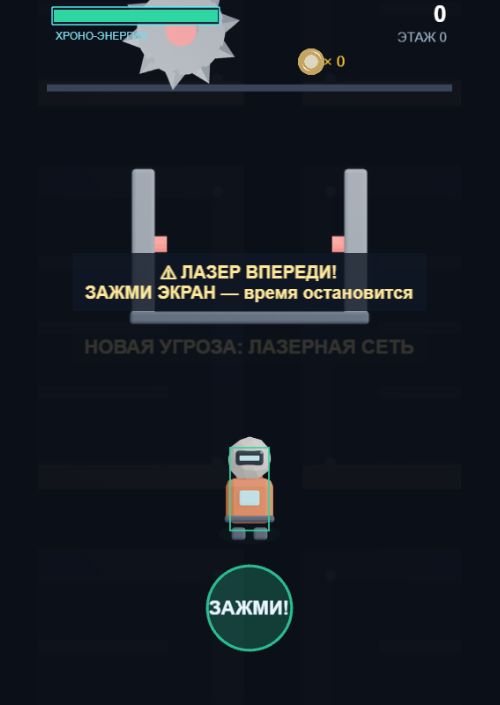
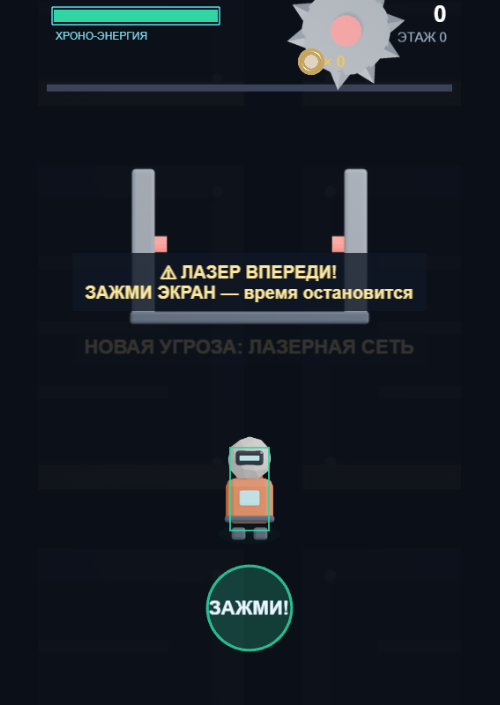
Пресс: плита внутри рамы; жёлтая зона за секунду до удара ловушек
Рама пресса стояла выше хода плиты: при ударе плита пробивала опору и ложилась под рамой. Теперь поднятая плита висит под поршнем и ложится на опору, положение после удара то же. Лазер, шипы, пресс и тесла за 1 с до включения показывают жёлтую мигающую зону там, где станет красной; тайминги не менялись. Спрятанные шипы полупрозрачные.

Changed region(s): [[0.57, 0.0, 0.81, 0.1248], [0.24, 0.0, 0.48, 0.1248]]

diff --git a/game/Assets/Scripts/Gameplay/Traps.js b/game/Assets/Scripts/Gameplay/Traps.js
@@ -42,6 +42,13 @@ class LaserTrap {
     if (!this.dangerous) return [];
     return [{ x1: this.beamX1, x2: this.beamX2, y1: this.beamY - 11, y2: this.beamY + 11 }];
   }
+  /* сколько мс до включения луча (для жёлтой зоны-предупреждения) и где он будет */
+  msToDanger() {
+    if (this.phase === 'off') return this.durOff - this.t + this.durTele;
+    if (this.phase === 'tele') return this.durTele - this.t;
+    return 0;
+  }
+  warnRects() { return [{ x1: this.beamX1, x2: this.beamX2, y1: this.beamY - 11, y2: this.beamY + 11 }]; }
   onFrozen() { if (this.dangerous) this.hadFreezeWhileDanger = true; }
   disarm() { this.phase = 'off'; this.t = 0; this.beam.setAlpha(0); this.glow.setAlpha(0); this.dangerous = false; }
   destroy() { this.d.destroy(); this.beam.destroy(); this.glow.destroy(); }
@@ -83,7 +90,7 @@ class SpikesTrap {
     this.phase = 'hidden';
     this.durHidden = prefab.durHidden / diff; this.durWarn = prefab.durWarn; this.durOut = prefab.durOut / diff;
     this.base = scene.add.rectangle(240, ledgeY - 4, 460, 12, 0x2b3442).setDepth(4);
-    this.img = scene.add.image(240, ledgeY + 34, 'trap_spikes').setScale(1.12).setDepth(6);
+    this.img = scene.add.image(240, ledgeY + 34, 'trap_spikes').setScale(1.12).setDepth(6).setAlpha(0.35);
     this.imgYOut = ledgeY - 16; this.imgYIn = ledgeY + 34;
     this.dangerous = false;
     this.hadFreezeWhileDanger = false;
@@ -103,7 +110,9 @@ class SpikesTrap {
       this.img.setY(Phaser.Math.Linear(this.imgYIn, this.imgYOut, k)).setAlpha(1);
     } else {
       const k = Math.max(0, 1 - this.t / 150);
-      this.img.setY(Phaser.Math.Linear(this.imgYIn, this.imgYOut, k)).setAlpha(1);
+      // спрятанные шипы всё равно торчат над полом (ход всего 50 px) — делаем их полупрозрачными,
+      // чтобы было видно, что сейчас они не опасны
+      this.img.setY(Phaser.Math.Linear(this.imgYIn, this.imgYOut, k)).setAlpha(0.35 + 0.65 * k);
     }
     this.dangerous = (this.phase === 'out');
   }
@@ -113,6 +122,12 @@ class SpikesTrap {
     // Раньше зона была на 31 px выше остриёв и в полтора раза шире: смерть без касания
     return [{ x1: 116, x2: 364, y1: this.img.y - 58, y2: this.ledgeY - 4 }];
   }
+  msToDanger() {
+    if (this.phase === 'hidden') return this.durHidden - this.t + this.durWarn;
+    if (this.phase === 'warn') return this.durWarn - this.t;
+    return 0;
+  }
+  warnRects() { return [{ x1: 116, x2: 364, y1: this.imgYOut - 58, y2: this.ledgeY - 4 }]; }
   onFrozen() { if (this.dangerous) this.hadFreezeWhileDanger = true; }
   disarm() { this.phase = 'hidden'; this.t = 0; this.dangerous = false; this.img.setY(this.imgYIn); }
   destroy() { this.img.destroy(); this.base.destroy(); }
@@ -126,12 +141,16 @@ class CrusherTrap {
     this.scene = scene; this.ledgeY = ledgeY;
     this.type = 'crusher';
     this.pxPerWorld = 159;                 // при scale 1.1 обеих спрайтов
-    this.frame = scene.add.image(240, ledgeY - 1.675 * this.pxPerWorld, 'trap_crusher_frame')
-      .setScale(1.1).setDepth(5);
-    this.press = scene.add.image(240, ledgeY - 2.05 * this.pxPerWorld, 'trap_crusher_press')
+    // Плита ходит внутри рамы: поднятая висит под поршнем, при ударе ложится на нижнюю опору.
+    // Раньше рама стояла на 126 px выше: плита пробивала опору и ложилась под рамой.
+    // Положение плиты при ударе (yDown) не менялось — баланс тот же.
+    // Спрайт рамы (256 px, scale 1.1): низ поршня — строка 72, верх опоры — строка 216
+    this.yDown = ledgeY - 0.55 * this.pxPerWorld;           // низ плиты = ledgeY − 43.5
+    this.frame = scene.add.image(240, this.yDown + 44 - 96.8, 'trap_crusher_frame')
+      .setScale(1.1).setDepth(5);                            // верх опоры = низ плиты при ударе
+    this.yUp = this.frame.y - 61.6 + 44;                     // верх плиты = низ поршня
+    this.press = scene.add.image(240, this.yUp, 'trap_crusher_press')
       .setScale(1.1).setDepth(6);
-    this.yUp = ledgeY - 2.05 * this.pxPerWorld;
-    this.yDown = ledgeY - 0.55 * this.pxPerWorld;
     this.phase = 'up'; this.t = 0;
     this.durUp = prefab.durUp / diff; this.durWarn = prefab.durWarn;
     this.slamTime = prefab.slamTime; this.durHold = prefab.durHold / diff; this.durRise = prefab.durRise;
@@ -176,6 +195,14 @@ class CrusherTrap {
     if (y2 <= y1) return [];
     return [{ x1: 118, x2: 362, y1: y1, y2: y2 }];
   }
+  /* до удара; после подъёма — снова через полный цикл (up + warn) */
+  msToDanger() {
+    if (this.phase === 'up') return this.durUp - this.t + this.durWarn;
+    if (this.phase === 'warn') return this.durWarn - this.t;
+    if (this.phase === 'rise') return this.durRise - this.t + this.durUp + this.durWarn;
+    return 0;
+  }
+  warnRects() { return [{ x1: 118, x2: 362, y1: this.yDown - 44, y2: this.yDown + 44 }]; }  // куда ляжет плита
   onFrozen() { if (this.dangerous) this.hadFreezeWhileDanger = true; }
   disarm() { this.phase = 'up'; this.t = 0; this.press.y = this.yUp; this.dangerous = false; }
   destroy() { this.frame.destroy(); this.press.destroy(); }
@@ -244,6 +271,12 @@ class TeslaTrap {
     if (!this.dangerous) return [];
     return [{ x1: this.arcX1, x2: this.arcX2, y1: this.arcY - 13, y2: this.arcY + 13 }];
   }
+  msToDanger() {
+    if (this.phase === 'idle') return this.durIdle - this.t + this.durCharge;
+    if (this.phase === 'charge') return this.durCharge - this.t;
+    return 0;
+  }
+  warnRects() { return [{ x1: this.arcX1, x2: this.arcX2, y1: this.arcY - 13, y2: this.arcY + 13 }]; }
   onFrozen() { if (this.dangerous) this.hadFreezeWhileDanger = true; }
   disarm() { this.phase = 'idle'; this.t = 0; this.dangerous = false; this.arc.clear(); this.glow.setAlpha(0); }
   destroy() { this.img.destroy(); this.glow.destroy(); this.arc.destroy(); }

diff --git a/game/Assets/Scripts/Gameplay/GameScene.js b/game/Assets/Scripts/Gameplay/GameScene.js
@@ -395,6 +395,21 @@ class GameScene extends Phaser.Scene {
         g.lineStyle(1.5, danger ? 0xff3b3b : 0xffc93c, danger ? 0.55 : 0.25);
         g.strokeRect(r.x1, r.y1, r.x2 - r.x1, r.y2 - r.y1);
       }
+      // жёлтая зона-предупреждение: за WARN_MS до включения ловушки мигает там, где станет красной
+      // (3 вспышки, к концу ярче). Тайминги ловушек не меняются — только подсказка
+      if (!tr.dangerous && tr.msToDanger) {
+        const ms = tr.msToDanger();
+        if (ms > 0 && ms <= GameScene.WARN_MS) {
+          const k = 1 - ms / GameScene.WARN_MS;
+          const blink = 0.5 - 0.5 * Math.cos(k * Math.PI * 2 * 3);
+          for (const r of tr.warnRects()) {
+            g.fillStyle(0xffc93c, 0.05 + (0.10 + 0.08 * k) * blink);
+            g.fillRect(r.x1, r.y1, r.x2 - r.x1, r.y2 - r.y1);
+            g.lineStyle(1.5, 0xffc93c, 0.25 + 0.45 * blink);
+            g.strokeRect(r.x1, r.y1, r.x2 - r.x1, r.y2 - r.y1);
+          }
+        }
+      }
     }
   }
 
@@ -524,3 +539,6 @@ class GameScene extends Phaser.Scene {
     });
   }
 }
+
+// за сколько мс до включения ловушки мигает жёлтая зона-предупреждение (drawHitboxes)
+GameScene.WARN_MS = 1000;

diff --git a/docs/FIXES.md b/docs/FIXES.md
@@ -7,8 +7,10 @@
 
 ## Итог
 
-- 12 исправлений в игре (из них 2 — вход и лидерборд на настоящих Яндекс Играх), 1 новый экран («Настройки»),
-  чёткая картинка на больших экранах и телефонах (отдельный коммит), 4 исправления в тестах.
+- 12 исправлений в игре (из них 2 — вход и лидерборд на настоящих Яндекс Играх).
+- Новое: экран «Настройки», чёткая картинка на больших экранах и телефонах, жёлтая зона-предупреждение
+  за секунду до удара ловушек.
+- 4 исправления в тестах.
 - 4 новых теста: `check_pages.js`, `check_daily.js` (без браузера), `probe_revive.js` и `shots_defense.js` (скриншоты).
 - Тесты теперь возвращают код ошибки, если что-то не так. Раньше часть из них печатала
   «ошибок нет» и при неработающей игре.
@@ -148,21 +150,25 @@
     был нарисован постоянно, хотя опасен он примерно 1 секунду из 2,8.
   - **Тесла:** катушки уменьшены до 0,45 и стояли в центре, а разряд шёл через всю шахту, выше контактов.
   - **Шипы:** зона на 31 точку выше остриёв и в полтора раза шире шипов — смерть без касания.
-  - **Пресс:** зона на 35 точек ниже плиты — смерть под прессом без касания.
+  - **Пресс:** зона на 35 точек ниже плиты — смерть под прессом без касания. Кроме того, рама стояла
+    на 126 точек выше хода плиты: при ударе плита пробивала нижнюю опору рамы и ложилась под ней,
+    а поднятая плита закрывала весь верх рамы.
   - **Пила:** зона смещена на 14 точек вниз от центра диска.
 - **Исправлено** (`Gameplay/Traps.js`, `Art/Sprites/trap_laser.png`):
-  - лазер и тесла — картинки поставлены к опасным линиям (`:14`, `:192`): луч идёт между излучателями,
-    разряд — между шарами-контактами; с картинки лазера стёрт вшитый луч, теперь он виден только при
-    предупреждении и выстреле. Высота зон не менялась;
-  - шипы — зона от остриёв до пола по ширине шипов и движется вместе с ними (`:114`);
-  - пресс — зона по самой плите, в том числе во время удара, но не выше 160 точек над полом, как
-    в исходном балансе (`:175`): лифт проходит сквозь раму, а плита пролетает её верх за доли удара;
-  - пила — зона по центру диска (`:72`).
+  - лазер и тесла (`LaserTrap`, `TeslaTrap`) — картинки поставлены к опасным линиям: луч идёт между
+    излучателями, разряд — между шарами-контактами; с картинки лазера стёрт вшитый луч, теперь он виден
+    только при предупреждении и выстреле. Высота зон не менялась;
+  - шипы (`SpikesTrap.rects`) — зона от остриёв до пола по ширине шипов и движется вместе с ними;
+    спрятанные шипы теперь полупрозрачные: они всё равно торчат над полом, и было непонятно, опасны ли они;
+  - пресс (`CrusherTrap`) — рама собрана: поднятая плита висит под поршнем, при ударе ложится на нижнюю
+    опору. Где плита лежит после удара, не менялось. Зона — по самой плите, в том числе во время удара,
+    но не выше 160 точек над полом, как в исходном балансе: лифт проходит сквозь раму;
+  - пила (`SawTrap.rects`) — зона по центру диска.
 - **Сложность:** шипы и пресс стали немного мягче, потому что зона меньше и умереть можно только от касания.
   `test/audit_passability.js` пересчитан под новые размеры: в худшем месте запас энергии вырос
   с 45,5 до 59,1 из 100.
 - **Проверка:** все пять ловушек сняты в момент опасности до и после (картинка выше). Все тесты проходят,
-  бот в `probe_playthrough.js` доходит до 7–9 этажа и погибает от нехватки энергии, как и в исходной версии.
+  бот в `probe_playthrough.js` доходит до 7–10 этажа и погибает от нехватки энергии, как и в исходной версии.
   `probe_missions.js` больше не зависит от того, умер ли автопилот за 30 секунд.
 
 ### 12. Опечатки
@@ -210,6 +216,21 @@
   `cdp_test.js` проверяет размер холста и увеличение камеры. При плотности 1, 2 и 3 (масштаб 1; 1,75; 2,75)
   проходят все тесты: клики по кнопкам всех экранов, удержание для остановки времени, мини-игры, бот проходит этажи.
   Вручную в браузере: меню, запуск забега, остановка времени.
+
+### 15. Жёлтая зона-предупреждение за секунду до удара
+
+![жёлтая зона](fixes/warning_zones.png)
+
+- **Зачем:** ловушки, которые включаются по времени (лазер, шипы, пресс, тесла), убивают только в свою фазу.
+  Раньше перед ударом было видно лишь слабое мигание самой ловушки, а куда она ударит — нет.
+- **Сделано:** за 1 секунду до включения на месте будущей красной зоны появляется жёлтая и трижды
+  вспыхивает, к концу ярче; в момент удара она становится красной. У пресса жёлтая зона — там, куда
+  ляжет плита. Пила опасна всегда, у неё жёлтой зоны нет.
+  - `Gameplay/Traps.js` — у четырёх ловушек методы `msToDanger()` (сколько осталось до удара)
+    и `warnRects()` (где будет опасно);
+  - `Gameplay/GameScene.js` — `drawHitboxes()` рисует жёлтую зону, длительность — `GameScene.WARN_MS = 1000`.
+- **Баланс не меняется:** тайминги ловушек те же, это только подсказка.
+- **Проверка:** кадры каждой ловушки за 0,83 / 0,67 / 0,5 / 0,17 с до удара и в момент удара (картинка выше).
 
 ## Тесты
 

diff --git a/docs/GDD.md b/docs/GDD.md
@@ -72,7 +72,7 @@ Hyper-casual рынок 2025–26 (по обзорам Kevuru Games, Capermint, 
 | Гидропресс | поднят → предупреждение → удар → удержание | прямоугольник удара |
 | Тесла-дуга | заряд → разряд по ширине шахты | горизонтальная линия |
 
-Все зоны поражения всегда подсвечены: красная заливка (яркая и пульсирующая, когда ловушка опасна), жёлтая — когда безопасна. Хитбокс игрока — зелёный контур.
+Зоны поражения подсвечены и совпадают с картинкой ловушки: красная заливка (пульсирующая) — ловушка опасна сейчас; жёлтая, трижды мигающая — включится через секунду (лазер, шипы, пресс, тесла). Хитбокс игрока — зелёный контур.
 
 ### 5.3 Миниигры (на том же вводе, каждые 4 этажа после 4-го)
 - **«Калибровка хроноядра»** — маркер крутится по кольцу, короткий тап в зелёном секторе.

diff --git a/docs/DEFENSE.md b/docs/DEFENSE.md
@@ -26,7 +26,8 @@
 
 Управление: **зажать** мышь, экран или пробел — время останавливается, ловушки замирают.
 Отпустить — время идёт дальше. Энергия на остановку времени тратится и восстанавливается
-сама (полоса слева вверху).
+сама (полоса слева вверху). **Красная** зона убивает сейчас, **жёлтая мигающая** станет красной
+через секунду — в этот момент и надо зажимать.
 
 ## 2. Сценарий показа на 2–3 минуты
 
